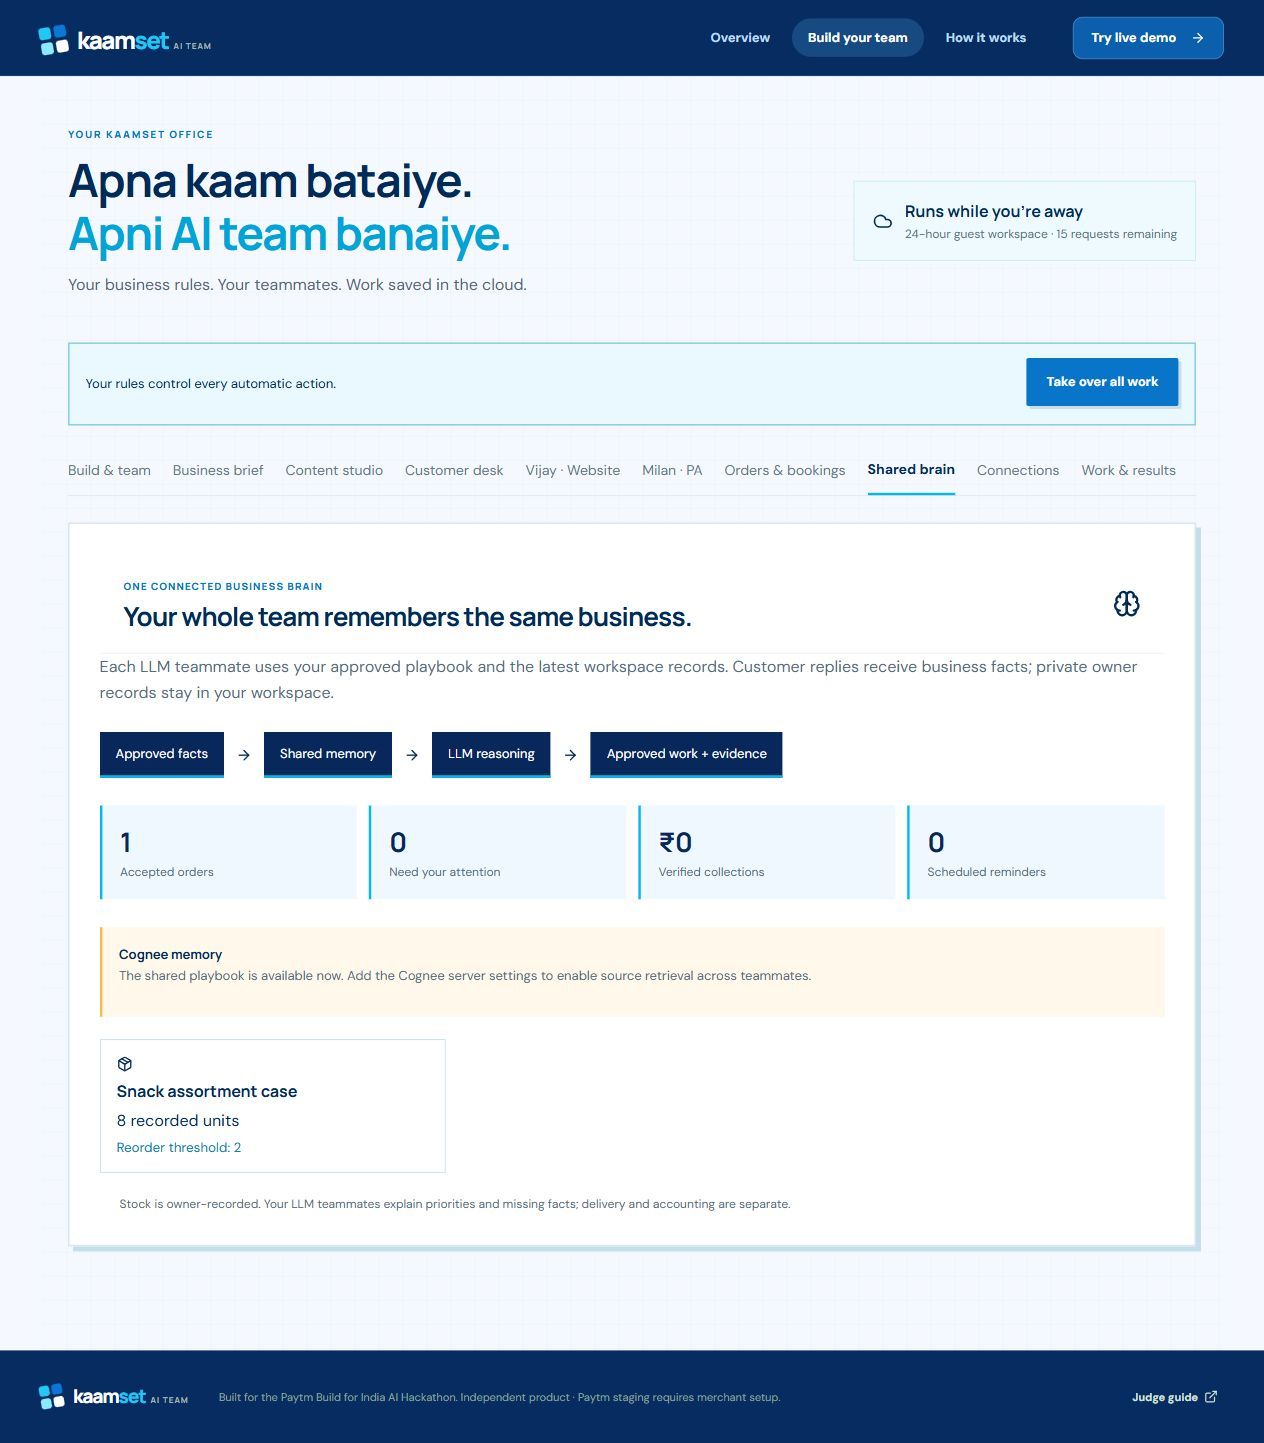
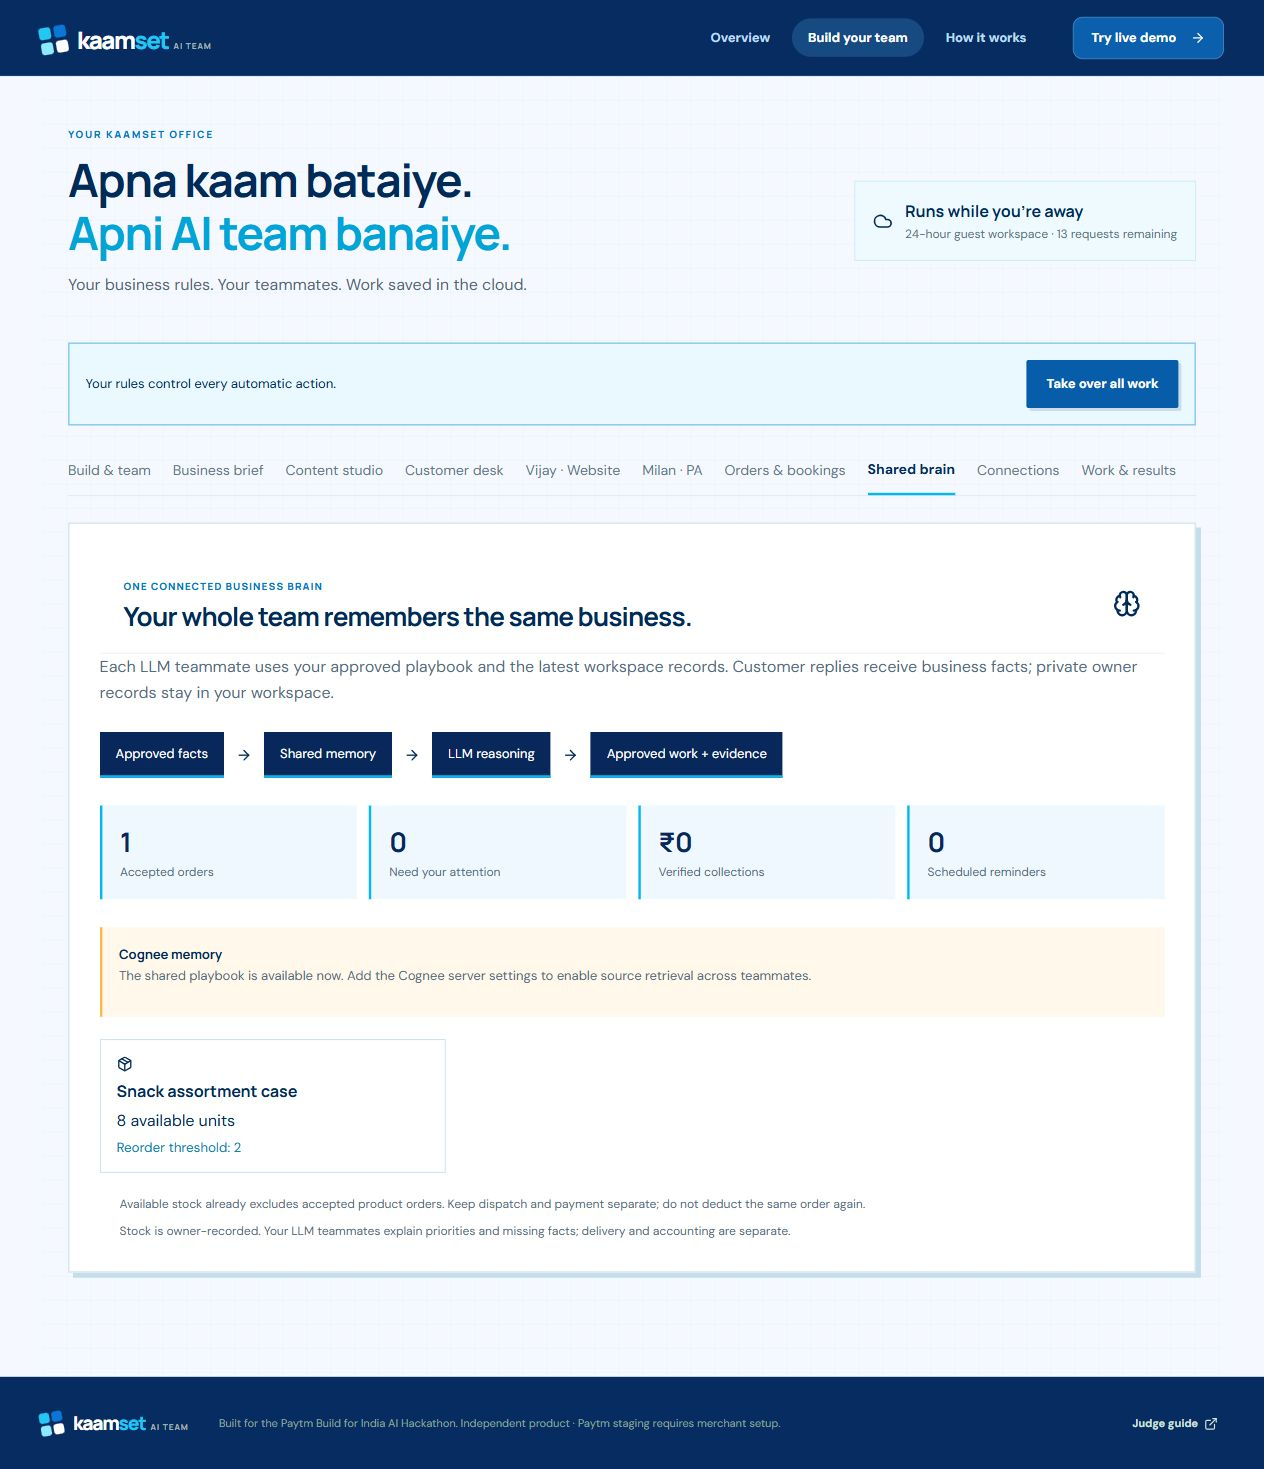
docs: preserve verified rollout results and remaining deployment gates

diff --git a/docs/TEST_RESULTS.md b/docs/TEST_RESULTS.md
@@ -20,6 +20,14 @@ Backend PR #264, merged and approved as 98572eb0, mirrors existing validator len
 
 PR #265 clarifies the available-stock/reservation policy in canonical facts and the LLM prompt, compares website price formats in paise, and saves a bounded factual rejection reason. TypeScript and 28 targeted tests pass. An actual configured stock worker-process probe retained eight cases, rejected a second deduction and ignored injected stock/profit claims (5.8 seconds, three exact quotes). Pro HIGH in-memory website probes passed using the visible fictional brief; another probe was correctly blocked by a forbidden claim phrase. These probes made no database/external writes. Full CI, deployment and fresh persisted retries remain separate gates.
 
+## Latest release status
+
+Backend PR #265 is merged as fe4d1388. Current-head CI passed all 2,392 unit tests, 75 PostgreSQL journeys, 19 database gates, production container/assets and zero production vulnerabilities. Railway marked its API and worker deployments NEEDS_APPROVAL because the commit author is not linked to the workspace. Both services continue serving approved 98572eb0 until that approval and rollout finish.
+
+Frontend PR #3 is merged as 0f28bbe8 and deployed READY as dpl_Dqju8Z8ctW6aDFYjnJFp8qCjCTYu. Local and Vercel TypeScript/Vite builds passed. The live UI now labels stock as available for new orders and explains once-only reservation. Browser reload restored one accepted order, eight available units and zero verified collections; the revised native screenshot is saved.
+
+After fe4d1388 reaches SUCCESS on both services: explicitly queue a fresh stock task and check its answer for eight available cases without a second deduction; publish a new approved website through the merchant UI, close that test tab while working, reopen and verify the published page/link. Those checks remain pending and must not be reported as passed. The impossible-demand and duplicate-acceptance checks already passed on 98572eb0.
+
 ## Requires merchant setup and live verification
 
 - Instagram Business/Creator account, appropriate Meta permissions and approved posting/reply rules.

diff --git a/docs/LIVE-RELEASE-EVIDENCE.md b/docs/LIVE-RELEASE-EVIDENCE.md
@@ -28,4 +28,6 @@ A new persisted stock task returned a completed model response rejected by stric
 
 The fresh persisted stock task then completed, but its narrative suggested subtracting the accepted order twice. PR #265 clarifies current available balance and atomic reservation semantics in the shared brain and model prompt. Its actual in-memory stock probe retained eight cases and explicitly rejected a second deduction. The impossible-demand blueprint correctly returned needs_scope_change and blocked activation with HTTP 409. The merchant UI rechecked and activated Vijay; a third website failed factual verification. New website diagnostics identify source/price/claim rejection without exposing discarded copy. Deployment and fresh persisted checks remain required. No unverified failed task or flawed narrative is counted as successful work.
 
+PR #265 is merged as fe4d1388; all 2,392 unit tests, 75 PostgreSQL journeys, 19 database gates and zero-production-vulnerability checks passed. Railway requires author approval before replacing running 98572eb0. The clearer stock UI is deployed READY on Vercel as dpl_Dqju8Z8ctW6aDFYjnJFp8qCjCTYu (frontend 0f28bbe8). Reloading the browser restored one accepted order and eight available units with the new reservation explanation. A fresh persisted stock answer and merchant-tab-closed website build await the new backend rollout.
+
 Actual Instagram/Gmail/WhatsApp/Calendar account actions and Paytm, Sarvam and Cognee credentials still require merchant setup. Fixtures are not external live proof. See the backend docs/KAAMSET-FINALE-SETUP.md for the configuration walkthrough. Presentation work remains paused.
